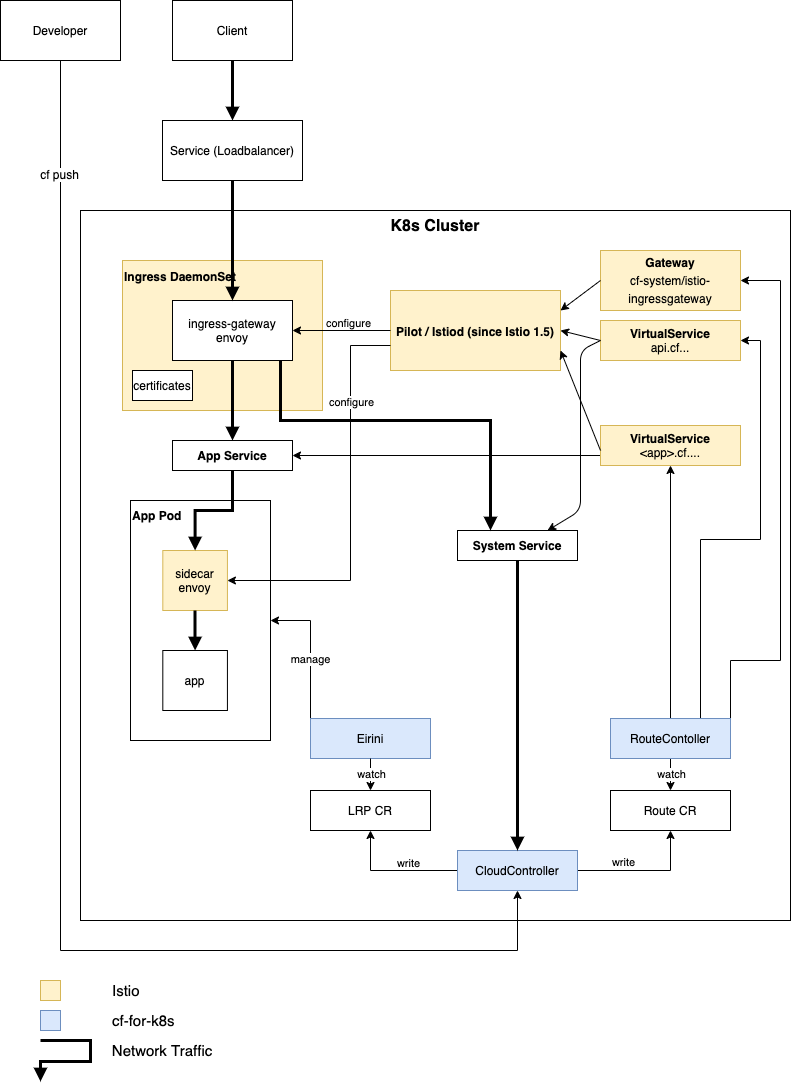
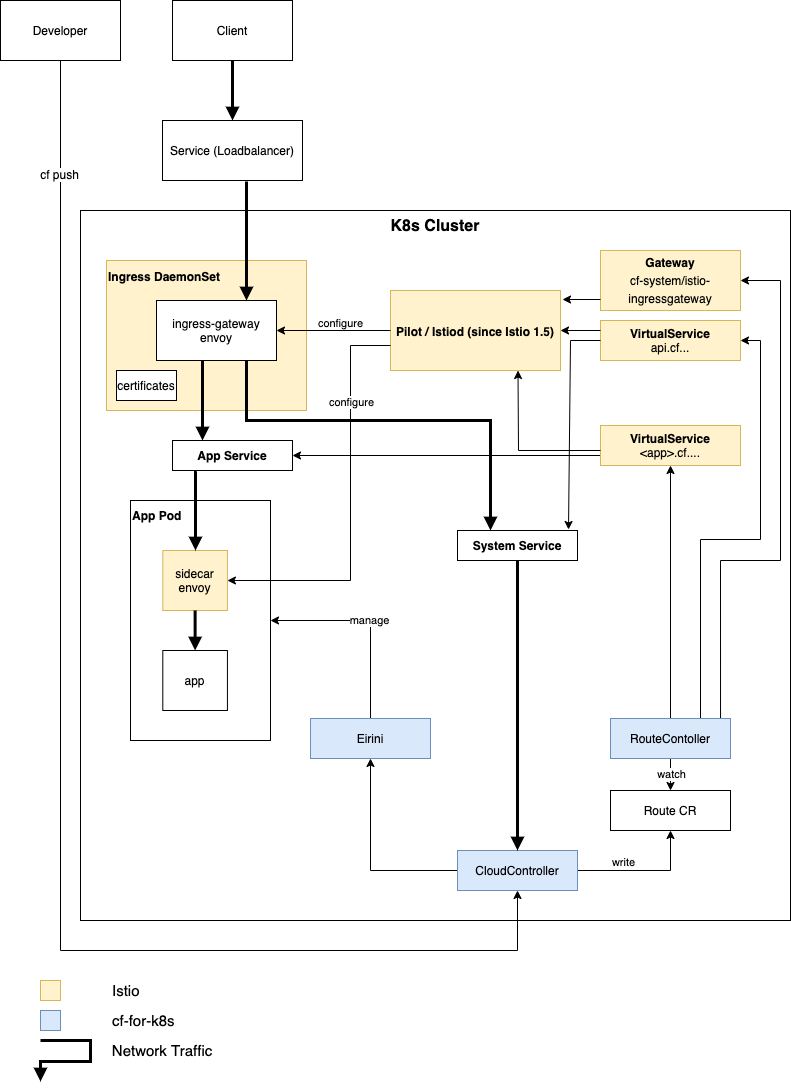
Minor adjustments to Network.drawio

diff --git a/README.md b/README.md
@@ -5,7 +5,7 @@
 - [Physical Network Traffic](#physical-network-traffic)
 - [Envoy](#envoy)
 - [Debugging](#debugging)
-- [CloudFoundry, Istio and Envoy Config Diffs](#cloudfoundry-istio-and-envoy-config-diffs) 
+- [CloudFoundry, Istio and Envoy Config Diffs](#cloudfoundry-istio-and-envoy-config-diffs)
 
 <!-- /TOC -->
 
@@ -39,7 +39,7 @@
 | [Sidecar](https://istio.io/docs/reference/config/networking/sidecar/) | Every instance(replica) of an app has a sidecar Envoy, which runs in parallel with the app. These Envoys monitors everything about the application.|
 | [Cloud Controller](https://docs.cloudfoundry.org/concepts/architecture/cloud-controller.html)| The Cloud Controller in Cloud Foundry (CF) provides REST API endpoints for clients (developers) to access the system.|
 | [RouteController && Route CR](https://github.com/cloudfoundry/cf-k8s-networking#architecture) | The RouteController watches for updates to the `Route CR` (Route Custom Resource) and translates these into `Kubernetes Service` and `Istio VirtualService` objects.|
-| [Eirini && LRP CR ](https://github.com/cloudfoundry-incubator/eirini#what-is-eirini)| Eirini is a Kubernetes backend for Cloud Foundry. It watches for updates to the `LRP CR` (Long Running Process Custom Resource) and creates the `App Pod` accordingly. |
+| [Eirini ](https://github.com/cloudfoundry-incubator/eirini#what-is-eirini)| Eirini is a Kubernetes backend for Cloud Foundry. It create `StatefulSet`s to deply the applications. |
 | [Gateway](https://istio.io/docs/reference/config/networking/gateway/) | Cloud Foundry uses one single `Gateway` to route the network traffic.|
 | [Virtual Service for System Services](https://istio.io/docs/reference/config/networking/virtual-service/) | During installation a `VirtualService` is created for each system service: <ul><li>Cloud Controller `api.cf...`</li><li>Log Cache `log-cache.cf...`</li><li>UAA `uaa.cf...`, `*.uaa.cf...`, `login.cf...`, `*.login.cf...` </li></ul>|
 |  [Virtual Service for Applications](https://istio.io/docs/reference/config/networking/virtual-service/)| For each application a `VirtualService` is created. <br/>[An example configuration](examples/k8s-configs/app-virtualservice.yaml). <br/>This `VirtualService` is also responsible to add the required HTTP headers (e.g. `CF-App-Id`). Each `VirtualService` refers to a kubernetes service. [`DestinationRules`](https://istio.io/docs/concepts/traffic-management/#destination-rules) are also part of Istio traffic management. Using destination rules you can configure what happens to traffic for that destination (e.g. traffic policy). <br/>|
@@ -918,4 +918,4 @@ Depending on the layer you want to look at different tools are more helpful than
 * Looking at the traffic passing through Envoys
 * Istio `istio-system/ingressgateway` is not used.
 
-*NOTE:* Envoy first evaluates route rules in virtual services to determine if a particular subset is being routed to. If so, only then will it activate any destination rule policies corresponding to the subset. Consequently, Istio only applies the policies you define for specific subsets in destination rules if you explicitly routed traffic to the corresponding subset. 
+*NOTE:* Envoy first evaluates route rules in virtual services to determine if a particular subset is being routed to. If so, only then will it activate any destination rule policies corresponding to the subset. Consequently, Istio only applies the policies you define for specific subsets in destination rules if you explicitly routed traffic to the corresponding subset.
